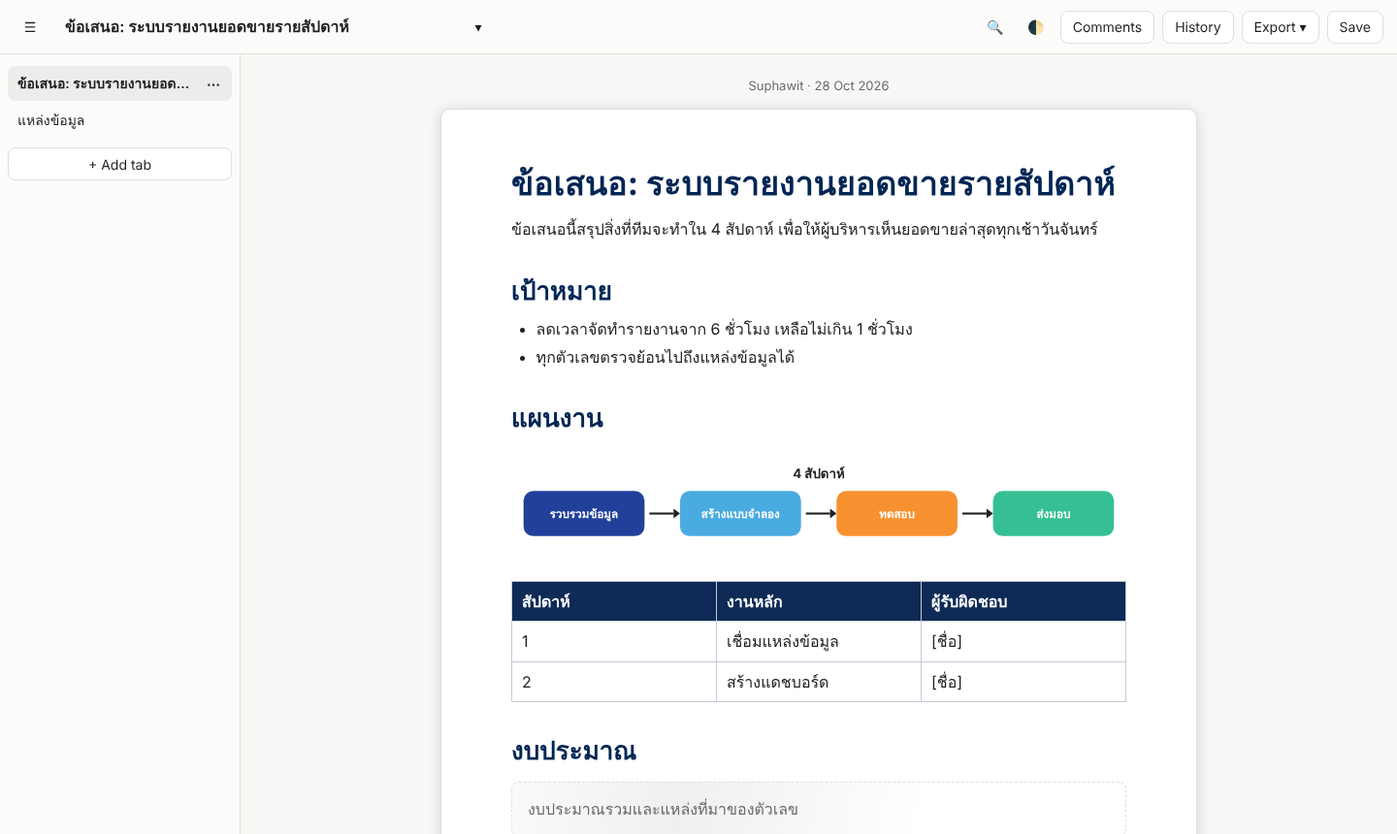
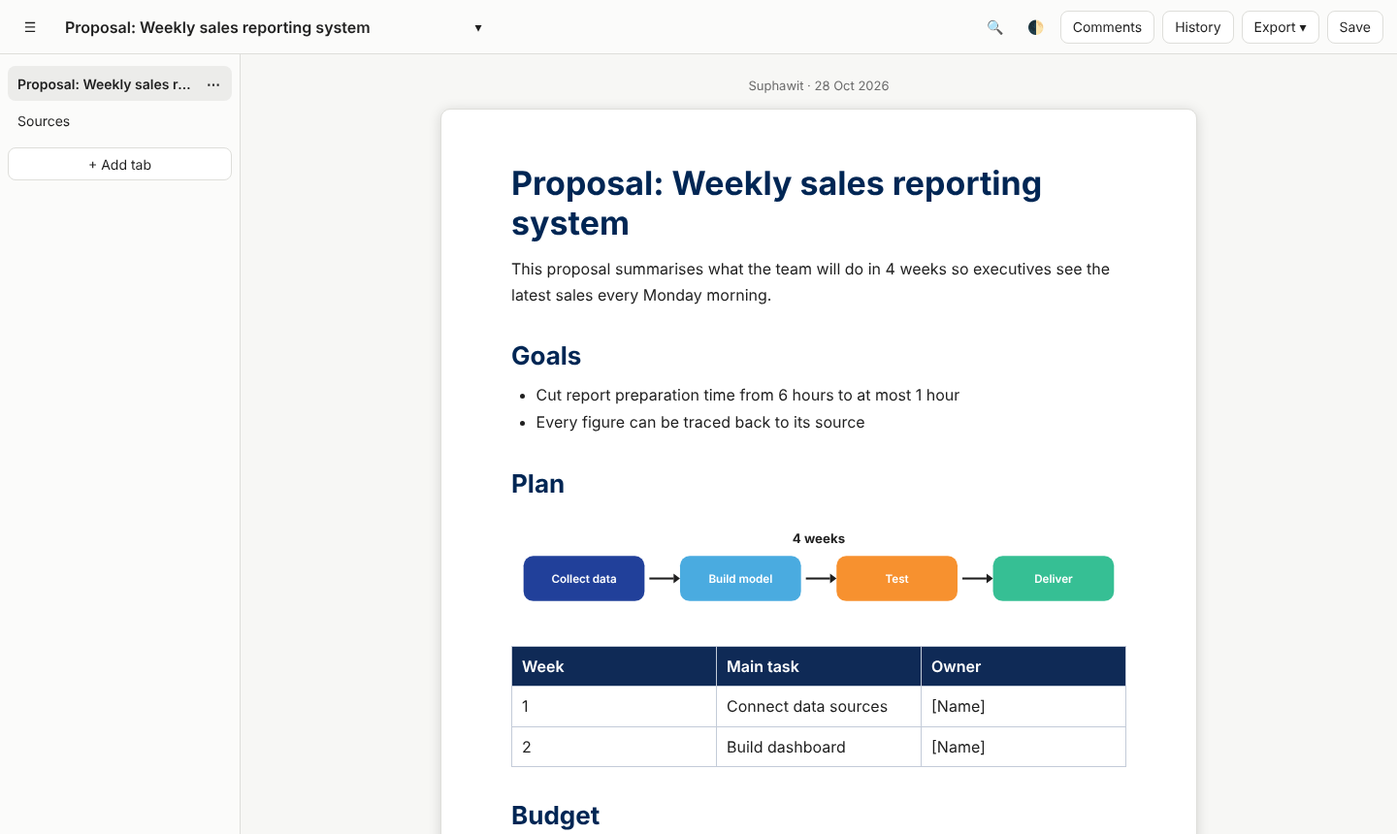
Make the whole repo English: README, sample content, tests; retake screenshots
Claude-Session: https://claude.ai/code/session_01Jy9JohjMkSc5vkzAobGh9v

diff --git a/design-slide/tu-test.html b/design-slide/tu-test.html
@@ -1,8 +1,8 @@
 <!doctype html>
-<html lang="th"><head>
+<html lang="en"><head>
 <meta charset="utf-8">
 <meta name="viewport" content="width=device-width, initial-scale=1">
-<title>Deck Editor: ทดสอบกับ Thai Union design system</title>
+<title>Deck Editor: test with the Thai Union design system</title>
 <link rel="stylesheet" href="editor.css">
 <script src="ds-tu.js"></script>
 </head>
@@ -10,58 +10,58 @@
 <div id="stage">
   <section class="slide" data-layout="cover">
     <img class="tu-bg" src="tu-bg-cover.png" alt="">
-    <div class="tu-cover-title"><h1 data-edit="">HTML Deck Editor<br>for Claude 3P</h1><p data-edit="">แก้ slide ได้ในที่ เหมือน Claude Slides แล้ว export เป็น PDF หรือ PowerPoint</p></div>
+    <div class="tu-cover-title"><h1 data-edit="">HTML Deck Editor<br>for Claude 3P</h1><p data-edit="">Edit slides in place like Claude Slides, then export to PDF or PowerPoint</p></div>
     <div class="tu-cover-date" data-edit="">28 October 2026</div>
-    <aside class="notes" hidden="">เปิดด้วยปัญหา: ใน 3P mode ใช้ Claude Slides ไม่ได้ แต่ยังอยากแก้ deck เองได้</aside>
+    <aside class="notes" hidden="">Open with the problem: Claude Slides is not available in 3P mode, but we still want to edit decks ourselves</aside>
   </section>
   <section class="slide" data-layout="agenda">
     <img class="tu-bg" src="tu-bg-agenda.png" alt="">
     <div class="tu-agenda-h" data-edit="">Agenda</div>
     <div class="tu-agenda-list">
-      <div class="tu-agenda-item"><b>01</b><div><h3 data-edit="">ทำไมต้องมี</h3><p data-edit="">3P mode ไม่มี Claude Slides</p></div></div>
-      <div class="tu-agenda-item"><b>02</b><div><h3 data-edit="">ทำอะไรได้</h3><p data-edit="">แก้ในที่ จัดการ slide และ export</p></div></div>
-      <div class="tu-agenda-item"><b>03</b><div><h3 data-edit="">ขั้นต่อไป</h3><p data-edit="">ย้ายเข้า vault ให้ทีมใช้</p></div></div>
+      <div class="tu-agenda-item"><b>01</b><div><h3 data-edit="">Why it exists</h3><p data-edit="">3P mode has no Claude Slides</p></div></div>
+      <div class="tu-agenda-item"><b>02</b><div><h3 data-edit="">What it does</h3><p data-edit="">Edit in place, manage slides and export</p></div></div>
+      <div class="tu-agenda-item"><b>03</b><div><h3 data-edit="">Next steps</h3><p data-edit="">Move into the vault for the team to use</p></div></div>
     </div>
   </section>
   <section class="slide" data-layout="section">
     <img class="tu-bg" src="tu-bg-section.png" alt="">
     <div class="tu-sec-num" data-edit="">01</div>
-    <div class="tu-sec-title" data-edit="">ทำอะไรได้บ้าง</div>
+    <div class="tu-sec-title" data-edit="">What can it do</div>
   </section>
   <section class="slide" data-layout="content">
     <img class="tu-bg" src="tu-bg-content.png" alt="">
-    <div class="tu-title" data-edit="">สิ่งที่ editor ทำได้</div>
-    <div class="tu-sub" data-edit="">ทุกอย่างอยู่ในไฟล์ HTML ไฟล์เดียวบนเครื่อง ไม่ต้องแชร์</div>
+    <div class="tu-title" data-edit="">What the editor can do</div>
+    <div class="tu-sub" data-edit="">Everything lives in a single HTML file on your computer, nothing is shared</div>
     <div class="tu-body"><ul data-edit="">
-      <li>คลิกข้อความแล้วพิมพ์ได้เลย ส่วน shape / กล่องข้อความลากย้ายและปรับขนาดได้</li>
-      <li>เพิ่ม slide จาก layout ของ design system, ทำซ้ำ, ลบ, ลากสลับลำดับ</li>
-      <li>Speaker notes, โหมดนำเสนอ, grid view, zoom</li>
-      <li>Export PDF และ <b>PowerPoint ที่แก้ข้อความได้</b></li>
+      <li>Click text and type; shapes and text boxes can be dragged and resized</li>
+      <li>Add slides from design system layouts, duplicate, delete, drag to reorder</li>
+      <li>Speaker notes, present mode, grid view, zoom</li>
+      <li>Export PDF and <b>PowerPoint with editable text</b></li>
     </ul></div>
     <div class="tu-page" data-page-number="">4</div>
-    <aside class="notes" hidden="">เน้นว่า PPTX แก้ข้อความได้จริง ไม่ใช่รูป</aside>
+    <aside class="notes" hidden="">Stress that the PPTX text is really editable, not pictures</aside>
   </section>
   <section class="slide" data-layout="numbers">
     <img class="tu-bg" src="tu-bg-content.png" alt="">
-    <div class="tu-title" data-edit="">ตัวเลขจากงาน RLS (SR-382319)</div>
-    <div class="tu-sub" data-edit="">ตัวอย่าง layout Big numbers</div>
+    <div class="tu-title" data-edit="">Numbers from the RLS job (SR-382319)</div>
+    <div class="tu-sub" data-edit="">Big numbers layout example</div>
     <div class="tu-cards">
-      <div class="tu-card"><b data-edit="">147</b><span data-edit="">สมาชิก RLS ที่เพิ่ม</span></div>
+      <div class="tu-card"><b data-edit="">147</b><span data-edit="">RLS members added</span></div>
       <div class="tu-card"><b data-edit="">16</b><span data-edit="">semantic model</span></div>
-      <div class="tu-card"><b data-edit="">27</b><span data-edit="">งานที่เปิดอยู่</span></div>
+      <div class="tu-card"><b data-edit="">27</b><span data-edit="">Open jobs</span></div>
     </div>
     <div class="tu-page" data-page-number="">5</div>
   </section>
   <section class="slide" data-layout="table">
     <img class="tu-bg" src="tu-bg-content.png" alt="">
-    <div class="tu-title" data-edit="">สถานะฟีเจอร์</div>
-    <div class="tu-sub" data-edit="">ตาราง weekly check-in style: หัวตาราง navy, สถานะเป็นคำ</div>
+    <div class="tu-title" data-edit="">Feature status</div>
+    <div class="tu-sub" data-edit="">Weekly check-in style table: navy header, status as a word</div>
     <table class="tu-table">
-      <tbody><tr><th data-edit="">ฟีเจอร์</th><th data-edit="">หมายเหตุ</th><th data-edit="">สถานะ</th></tr>
-      <tr><td data-edit="">แก้ข้อความในที่</td><td data-edit="">คลิกแล้วพิมพ์</td><td><span class="tu-status tu-done" data-edit="">Done</span></td></tr>
-      <tr><td data-edit="">Export PPTX แก้ได้</td><td data-edit="">text box, shape, bullet, notes</td><td><span class="tu-status tu-done" data-edit="">Done</span></td></tr>
-      <tr><td data-edit="">ย้ายเข้า vault</td><td data-edit="">ให้ทีมใช้ร่วมกัน</td><td><span class="tu-status tu-prog" data-edit="">In progress</span></td></tr>
-      <tr><td data-edit="">Chart แบบแก้ได้</td><td data-edit="">ตอนนี้ export เป็นรูป</td><td><span class="tu-status tu-risk" data-edit="">Not started</span></td></tr>
+      <tbody><tr><th data-edit="">Feature</th><th data-edit="">Notes</th><th data-edit="">Status</th></tr>
+      <tr><td data-edit="">Edit text in place</td><td data-edit="">Click and type</td><td><span class="tu-status tu-done" data-edit="">Done</span></td></tr>
+      <tr><td data-edit="">Editable PPTX export</td><td data-edit="">text box, shape, bullet, notes</td><td><span class="tu-status tu-done" data-edit="">Done</span></td></tr>
+      <tr><td data-edit="">Move into vault</td><td data-edit="">Shared by the team</td><td><span class="tu-status tu-prog" data-edit="">In progress</span></td></tr>
+      <tr><td data-edit="">Editable charts</td><td data-edit="">Currently exported as a picture</td><td><span class="tu-status tu-risk" data-edit="">Not started</span></td></tr>
     </tbody></table>
     <div class="tu-page" data-page-number="">6</div>
   </section>

diff --git a/design-doc/doc.html b/design-doc/doc.html
@@ -1,27 +1,27 @@
 <!doctype html>
-<html lang="th"><head>
+<html lang="en"><head>
 <meta charset="utf-8">
 <meta name="viewport" content="width=device-width, initial-scale=1">
-<title>Design Doc: ตัวอย่างเอกสาร</title>
+<title>Design Doc: Sample document</title>
 <link rel="stylesheet" href="editor.css">
 <script src="ds-tu.js"></script>
 </head>
 <body>
-<main id="doc" data-title="ตัวอย่างเอกสาร Design Doc" data-byline="Suphawit" data-date="2026-10-28">
-  <section data-tab="t1" data-name="ภาพรวม" data-order="a0">
-    <h1>ภาพรวมโครงการ</h1>
-    <p>Design Doc คือตัวแก้เอกสารสำหรับ Claude 3P mode ที่ทำงานเหมือน <b>Claude Docs</b> พิมพ์แก้ในที่ ใส่ความเห็น และส่งออกเป็น Word, PDF หรือ Markdown</p>
-    <h2>สิ่งที่ทำได้</h2>
-    <ul><li>หัวข้อ รายการ ตาราง โค้ด รูป กราฟ</li><li>เมนู <code>/</code> และ Markdown shortcut</li><li>คอมเมนต์เป็น thread และประวัติเวอร์ชัน</li></ul>
-    <h2>ตัวอย่างตาราง</h2>
-    <table><tr><th>งาน</th><th>ผู้รับผิดชอบ</th><th>สถานะ</th></tr><tr><td>สเปก</td><td>Suphawit</td><td>เสร็จ</td></tr><tr><td>Editor</td><td>Claude</td><td>กำลังทำ</td></tr></table>
-    <figure class="chart" data-chart='{"type":"bar","title":"ชั่วโมงทำงานต่อสัปดาห์","rows":[["สัปดาห์ 1",12],["สัปดาห์ 2",18],["สัปดาห์ 3",9],["สัปดาห์ 4",21]]}'></figure>
-    <div class="pending" data-intent="สรุปความเสี่ยง — กำลังรวบรวมข้อมูล"></div>
+<main id="doc" data-title="Design Doc sample document" data-byline="Suphawit" data-date="2026-10-28">
+  <section data-tab="t1" data-name="Overview" data-order="a0">
+    <h1>Project overview</h1>
+    <p>Design Doc isa document editor for Claude 3P mode that works like <b>Claude Docs</b> Edit in place, add comments, and export to Word, PDF or Markdown</p>
+    <h2>What it can do</h2>
+    <ul><li>Headings, lists, tables, code, images, charts</li><li>The <code>/</code> menu and Markdown shortcuts</li><li>Threaded comments and version history</li></ul>
+    <h2>Example table</h2>
+    <table><tr><th>Task</th><th>Owner</th><th>Status</th></tr><tr><td>Spec</td><td>Suphawit</td><td>Done</td></tr><tr><td>Editor</td><td>Claude</td><td>In progress</td></tr></table>
+    <figure class="chart" data-chart='{"type":"bar","title":"Work hours per week","rows":[["Week 1",12],["Week 2",18],["Week 3",9],["Week 4",21]]}'></figure>
+    <div class="pending" data-intent="Risk summary - still collecting data"></div>
   </section>
-  <section data-tab="t2" data-name="แหล่งข้อมูล" data-order="a1" data-subtab-of="t1">
-    <h1>แหล่งข้อมูล</h1>
-    <ol><li>คู่มือ Claude Docs</li><li>Design Slide</li></ol>
-    <figure class="diagram" data-diagram='{"title":"ขั้นตอน","steps":["เขียนสเปก","สร้าง editor","ทดสอบ","ส่งมอบ"]}'></figure>
+  <section data-tab="t2" data-name="Sources" data-order="a1" data-subtab-of="t1">
+    <h1>Sources</h1>
+    <ol><li>Claude Docs guide</li><li>Design Slide</li></ol>
+    <figure class="diagram" data-diagram='{"title":"Steps","steps":["Write spec","Build editor","Test","Deliver"]}'></figure>
   </section>
 </main>
 <script type="application/json" id="doc-data">{"comments":[],"revisions":[]}</script>

diff --git a/design-slide/deck.html b/design-slide/deck.html
@@ -1,5 +1,5 @@
 <!doctype html>
-<html lang="th"><head>
+<html lang="en"><head>
 <meta charset="utf-8">
 <meta name="viewport" content="width=device-width, initial-scale=1">
 <title>Deck PoC</title>
@@ -20,24 +20,24 @@
 <body>
 <div id="stage">
   <section class="slide title-slide">
-    <h1 data-edit="">Deck PoC: แก้ slide ได้ในที่</h1>
-    <p data-edit="">กด E เพื่อแก้ข้อความ · Ctrl+S เพื่อบันทึก · ลูกศรเพื่อเลื่อน slide</p>
+    <h1 data-edit="">Deck PoC: edit slides in place</h1>
+    <p data-edit="">Press E to edit text · Ctrl+S to save · arrow keys to move between slides</p>
   </section>
   <section class="slide">
-    <h2 data-edit="">ทำงานยังไง</h2>
+    <h2 data-edit="">How it works</h2>
     <ul data-edit="">
-      <li>Deck เป็นไฟล์ HTML ไฟล์เดียวในเครื่อง</li>
-      <li>โหมดแก้: คลิกข้อความแล้วพิมพ์ได้เลย</li>
-      <li>บันทึกแล้วเขียนทับไฟล์เดิม เก็บ .bak ไว้ 1 รุ่น</li>
-      <li>แก้ใหญ่ (layout, slide ใหม่, chart) สั่ง Claude ในแชท</li>
+      <li>A deck is one HTML file on your computer</li>
+      <li>Edit mode: click text and type</li>
+      <li>Saving overwrites the file and keeps one .bak copy</li>
+      <li>For big changes (layout, new slides, charts) ask Claude in chat</li>
     </ul>
   </section><section class="slide">
-    <h2 data-edit="">ตัวอย่าง card ตัวเลข</h2>
-    <p data-edit="">แก้ตัวเลขใน card ได้เหมือนข้อความทั่วไป</p>
+    <h2 data-edit="">Number card example</h2>
+    <p data-edit="">Edit the numbers in a card like any other text</p>
     <div class="cards">
-      <div class="card"><b data-edit="">30</b><span data-edit="">งานที่เปิดอยู่</span></div>
-      <div class="card"><b data-edit="">16</b><span data-edit="">model ที่ตั้ง RLS</span></div>
-      <div class="card"><b data-edit="">147</b><span data-edit="">สมาชิก RLS</span></div>
+      <div class="card"><b data-edit="">30</b><span data-edit="">Open jobs</span></div>
+      <div class="card"><b data-edit="">16</b><span data-edit="">Models with RLS set</span></div>
+      <div class="card"><b data-edit="">147</b><span data-edit="">RLS members</span></div>
     </div>
   </section>
   

diff --git a/design-doc/editor.js b/design-doc/editor.js
@@ -715,7 +715,7 @@
   }
   function exportHtml(sec) {
     const c = sec.cloneNode(true); c.className = 'doc-body'; renderFigures(c); [c, ...$$('[contenteditable]', c)].forEach(n => n.removeAttribute('contenteditable'));
-    return `<!doctype html><html lang="th"><head><meta charset="utf-8"><title>${esc(DOC.dataset.title || '')}</title>${(DS?.fonts || []).map(f => `<link rel="stylesheet" href="${f}">`).join('')}<style>body{max-width:760px;margin:40px auto;padding:0 24px;font:16px/1.65 "Segoe UI","Leelawadee UI",sans-serif;color:#1d2433}table{border-collapse:collapse;width:100%}td,th{border:1px solid #ccd;padding:6px 10px}pre{background:#f1f1ef;padding:12px;border-radius:8px;overflow:auto}blockquote{border-left:4px solid #ccd;margin:1em 0;padding:0 1em}img,svg{max-width:100%;height:auto}ul.check{list-style:none;padding-left:0}ul.check>li::before{content:"☐ "}ul.check>li[data-done]::before{content:"☑ "}.chip{background:#e6edf7;border-radius:999px;padding:0 8px}.pending{border:1px dashed #99a;padding:8px;color:#667}.pending::before{content:attr(data-intent)}${DS?.css || ''}</style></head><body class="doc-body">${c.outerHTML.replace(/^<section[^>]*>|<\/section>$/g, '')}</body></html>`;
+    return `<!doctype html><html lang="en"><head><meta charset="utf-8"><title>${esc(DOC.dataset.title || '')}</title>${(DS?.fonts || []).map(f => `<link rel="stylesheet" href="${f}">`).join('')}<style>body{max-width:760px;margin:40px auto;padding:0 24px;font:16px/1.65 "Segoe UI","Leelawadee UI",sans-serif;color:#1d2433}table{border-collapse:collapse;width:100%}td,th{border:1px solid #ccd;padding:6px 10px}pre{background:#f1f1ef;padding:12px;border-radius:8px;overflow:auto}blockquote{border-left:4px solid #ccd;margin:1em 0;padding:0 1em}img,svg{max-width:100%;height:auto}ul.check{list-style:none;padding-left:0}ul.check>li::before{content:"☐ "}ul.check>li[data-done]::before{content:"☑ "}.chip{background:#e6edf7;border-radius:999px;padding:0 8px}.pending{border:1px dashed #99a;padding:8px;color:#667}.pending::before{content:attr(data-intent)}${DS?.css || ''}</style></head><body class="doc-body">${c.outerHTML.replace(/^<section[^>]*>|<\/section>$/g, '')}</body></html>`;
   }
   // --- minimal docx writer (stored zip) ---
   const CRC = (() => { const t = new Uint32Array(256); for (let n = 0; n < 256; n++) { let c = n; for (let k = 0; k < 8; k++) c = c & 1 ? 0xEDB88320 ^ (c >>> 1) : c >>> 1; t[n] = c >>> 0; } return t; })();

diff --git a/design-slide/editor.js b/design-slide/editor.js
@@ -1641,7 +1641,7 @@
   const clear = c => !c || c === 'transparent' || /rgba\([^)]*,\s*0\)$/.test(c);
   const hex = c => (c.match(/[\d.]+/g) || [0, 0, 0]).slice(0, 3).map(n => Math.round(+n).toString(16).padStart(2, '0')).join('').toUpperCase();
   const alpha = c => { const m = c.match(/rgba\([^)]*,\s*([\d.]+)\)/); return m ? Math.round((1 - +m[1]) * 100) : 0; };
-  const THAI = /[฀-๿]/;
+  const THAI = /[\u0E00-\u0E7F]/;
   const fontMap = DS?.pptxFonts || {};
   const face = (cs, text) => {
     if (THAI.test(text)) return 'Leelawadee UI';

diff --git a/README.md b/README.md
@@ -1,55 +1,56 @@
 # dev-claude-artifact-for-3P
 
-สองเครื่องมือนี้เป็น **clone ของ Claude Artifact แบบ Slides และ Docs** สำหรับใช้กับ **Claude 3P mode** ซึ่งไม่มี artifact ชนิดเหล่านี้ให้ใช้
-ทำงานเหมือนกัน: สั่ง "create slides" หรือ "create a document" แล้ว Claude เขียนไฟล์ จากนั้นเปิดใน editor ในเครื่อง แก้ได้เหมือนบน claude.ai
-แล้ว export ได้ ไฟล์อยู่ในเครื่องของคุณ ไม่มีการแชร์ออกไป และใช้ **Design System ของตัวเองได้** (ดูหัวข้อด้านล่าง)
+These two tools are **clones of Claude's Slides and Docs artifacts** for use in **Claude 3P mode**, where those artifact types are not available.
+They work the same way: ask Claude to "create slides" or "create a document", Claude writes the file, and it opens in a local editor where you
+edit it like on claude.ai and then export it. Files stay on your computer, nothing is shared, and you can **use your own design system**
+(see below).
 
-| เครื่องมือ | ใช้แทน | โฟลเดอร์ | Skill |
+| Tool | Replaces | Folder | Skill |
 |---|---|---|---|
 | Design Slide | Claude Slides | `design-slide/` | `skills/design-slide/` |
 | Design Doc | Claude Docs | `design-doc/` | `skills/design-doc/` |
 
-## หน้าตาของเครื่องมือ
+## What the tools look like
 
-**Design Slide** (ตัวอย่างใช้ Thai Union design system)
+**Design Slide** (sample deck using the Thai Union design system)
 
 ![Design Slide](docs/screenshots/design-slide-editor.png)
 
-**Design Doc** (เอกสารหลายแท็บ, diagram, ตาราง, Comments / History / Export)
+**Design Doc** (multi-tab document with diagram, table, Comments / History / Export)
 
 ![Design Doc](docs/screenshots/design-doc-editor.png)
 
-## เริ่มใช้งานเร็ว
+## Quick start
 
-ต้องมี Node.js และ Chrome, Chromium หรือ Edge ในเครื่อง
+Needs Node.js and Chrome, Chromium or Edge.
 
 ```bash
-# Slide: เปิดเด็คตัวอย่าง (รูปแบบไฟล์เดียวกับ Claude Slides)
+# Slides: open the sample deck (same file format as Claude Slides)
 node design-slide/open-deck.mjs design-slide/examples/slides-format --ds tu
 
-# Doc: เปิดเอกสารตัวอย่าง
-node design-doc/open-doc.mjs design-doc/examples/proposal --ds tu --byline "ชื่อคุณ"
+# Docs: open the sample document
+node design-doc/open-doc.mjs design-doc/examples/proposal --ds tu --byline "Your name"
 ```
 
-คำสั่งจะพิมพ์ `OPEN: http://localhost:...` ให้เปิดใน browser pane ของ Claude desktop (หรือ browser ทั่วไป)
+Each command prints `OPEN: http://localhost:...`; open that address in the Claude desktop browser pane (or any browser).
 
-## ใช้ใน Claude 3P
+## Use in Claude 3P
 
-คัดลอก `skills/design-slide/` และ `skills/design-doc/` ไปไว้ที่ `~/.claude/skills/` แล้วตั้ง `DESIGN_SLIDE_DIR` / `DESIGN_DOC_DIR`
-เป็นพาธเต็มของโฟลเดอร์ `design-slide/` / `design-doc/` ใน repo นี้ หลังจากนั้นสั่ง "create slides" หรือ "create a document"
-Claude จะใช้กติกาออกแบบเดียวกับ Claude Slides/Docs แต่เปิดผลลัพธ์ใน Design Slide / Design Doc แทน
+Copy `skills/design-slide/` and `skills/design-doc/` to `~/.claude/skills/`, and set `DESIGN_SLIDE_DIR` / `DESIGN_DOC_DIR` to the full path of
+this repo's `design-slide/` / `design-doc/` folder. Then ask for "create slides" or "create a document": Claude follows the same design rules
+as Claude Slides/Docs but opens the result in Design Slide / Design Doc.
 
-## สร้าง Design System ของตัวเอง
+## Create your own design system
 
-Design System คือไฟล์ JavaScript เล็กๆ ที่เครื่องมือโหลดก่อน `editor.js` ตัวอย่างคือ Thai Union (`ds-tu.js`, เรียกด้วย `--ds tu`)
+A design system is a small JavaScript file that the tool loads before `editor.js`. The example is Thai Union (`ds-tu.js`, used with `--ds tu`).
 
-1. Slide: คัดลอก `design-slide/ds-tu.js` เป็น `design-slide/ds-<ชื่อ>.js` แล้วแก้ `window.DECK_DS`: `name`, `width/height`, `fonts`,
-   `colors`, `textStyles`, `css` และ `layouts` (layout ที่ขึ้นในปุ่ม "+")
-2. Doc: คัดลอก `design-doc/ds-tu.js` เป็น `design-doc/ds-<ชื่อ>.js` แล้วแก้ `window.DOC_DS`: `name`, `fonts`, `colors`, `chart`, `css`
-3. เปิดด้วย `--ds <ชื่อ>` เช่น `node design-slide/open-deck.mjs <โฟลเดอร์เด็ค> --ds acme`
+1. Slides: copy `design-slide/ds-tu.js` to `design-slide/ds-<name>.js` and edit `window.DECK_DS`: `name`, `width/height`, `fonts`,
+   `colors`, `textStyles`, `css` and `layouts` (the layouts offered by the "+" button).
+2. Docs: copy `design-doc/ds-tu.js` to `design-doc/ds-<name>.js` and edit `window.DOC_DS`: `name`, `fonts`, `colors`, `chart`, `css`.
+3. Open with `--ds <name>`, for example `node design-slide/open-deck.mjs <deck folder> --ds acme`.
 
-หมายเหตุตรงๆ: ตอนนี้ยังไม่มีตัวช่วยสร้าง design system อัตโนมัติ ต้องเขียนไฟล์ `ds-*.js` เอง (หรือให้ Claude เขียนจาก brand guide ให้)
-และผมยังไม่ได้ทดสอบกับ design system ที่ไม่ใช่ Thai Union
+To be upfront: there is no generator for design systems yet, so the `ds-*.js` file has to be written by hand (or by Claude from a brand
+guide), and it has only been tested with the Thai Union design system.
 
 ---
 

diff --git a/design-doc/examples/proposal/doc.md b/design-doc/examples/proposal/doc.md
@@ -1,26 +1,26 @@
-# ข้อเสนอ: ระบบรายงานยอดขายรายสัปดาห์
+# Proposal: Weekly sales reporting system
 
-ข้อเสนอนี้สรุปสิ่งที่ทีมจะทำใน 4 สัปดาห์ เพื่อให้ผู้บริหารเห็นยอดขายล่าสุดทุกเช้าวันจันทร์
+This proposal summarises what the team will do in 4 weeks so executives see the latest sales every Monday morning.
 
-## เป้าหมาย
+## Goals
 
-- ลดเวลาจัดทำรายงานจาก 6 ชั่วโมง เหลือไม่เกิน 1 ชั่วโมง
-- ทุกตัวเลขตรวจย้อนไปถึงแหล่งข้อมูลได้
+- Cut report preparation time from 6 hours to at most 1 hour
+- Every figure can be traced back to its source
 
-## แผนงาน
+## Plan
 
 ```diagram
-{"title":"4 สัปดาห์","steps":["รวบรวมข้อมูล","สร้างแบบจำลอง","ทดสอบ","ส่งมอบ"]}
+{"title":"4 weeks","steps":["Collect data","Build model","Test","Deliver"]}
 ```
 
-| สัปดาห์ | งานหลัก | ผู้รับผิดชอบ |
+| Week | Main task | Owner |
 | --- | --- | --- |
-| 1 | เชื่อมแหล่งข้อมูล | [ชื่อ] |
-| 2 | สร้างแดชบอร์ด | [ชื่อ] |
+| 1 | Connect data sources | [Name] |
+| 2 | Build dashboard | [Name] |
 
-## งบประมาณ
+## Budget
 
-[pending: งบประมาณรวมและแหล่งที่มาของตัวเลข]
+[pending: Total budget and where the figures come from]
 
-<!-- tab: แหล่งข้อมูล -->
-1. ไฟล์ยอดขายรายสัปดาห์ [ระบุที่เก็บไฟล์]
+<!-- tab: Sources -->
+1. Weekly sales file [state where it is stored]
